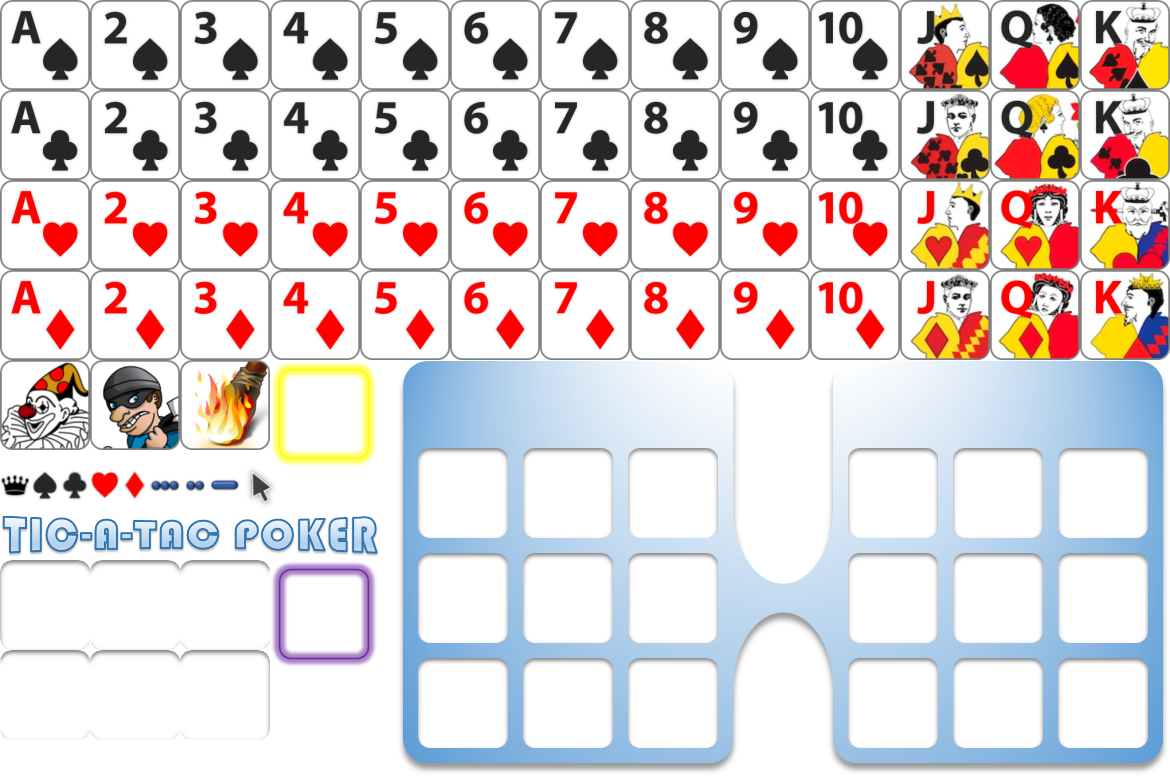
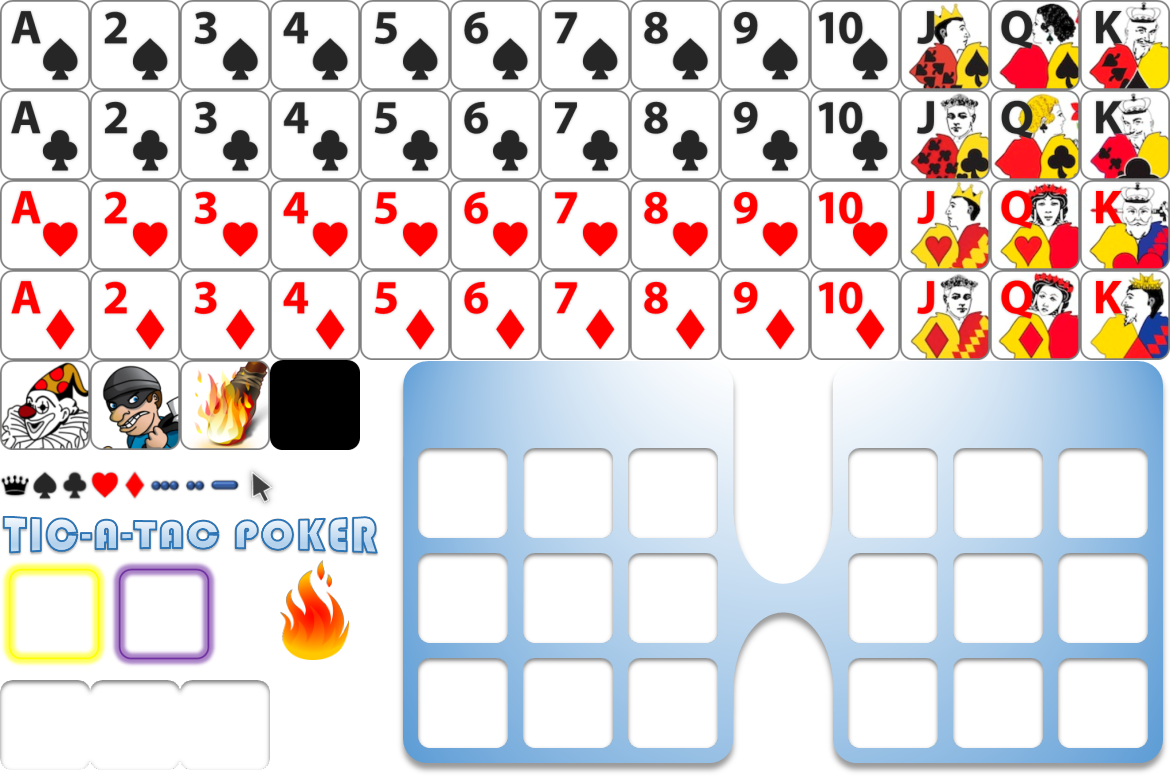
Eric

Changed region(s): [[0.0, 0.7077, 0.3385, 0.8923], [0.2154, 0.4615, 0.3385, 0.6154]]

diff --git a/render.js b/render.js
@@ -9,11 +9,22 @@ function aniHighlightGrid(status){
 		animation.globalAlpha = ((aniFrame%20 > 10)?20-aniFrame%20:aniFrame%20)/10;
 		//Left
 		for (var i = 0; i < 9; i++)
-			if (status[0] && status[0][i]) animation.drawImage(image,270,360,108,108,106+105*(i%3),161+105*Math.floor(i/3),108,108);
+			if (status[0] && status[0][i]) animation.drawImage(image,0,560,108,108,106+105*(i%3),161+105*Math.floor(i/3),108,108);
 		//Right
 		for (var i = 0; i < 9; i++)
-			if (status[1] && status[1][i]) animation.drawImage(image,270,360,108,108,536+105*(i%3),161+105*Math.floor(i/3),108,108);
+			if (status[1] && status[1][i]) animation.drawImage(image,0,560,108,108,536+105*(i%3),161+105*Math.floor(i/3),108,108);
 		aniFrame++;
+	}
+}
+
+function aniDropCardEffect(gridPosX,effectPos){
+	if (animation) {
+		animation.clearRect(0,0,960,640);
+		animation.globalAlpha = 1-aniFrame*0.1;
+		animation.drawImage(image,0,560,108,108,Math.floor((gridPosX-9+105*(effectPos%3))-108*(aniFrame*0.05)*0.5),
+							Math.floor((161+105*Math.floor(effectPos/3))-108*(aniFrame*0.05)*0.5),108*(1+aniFrame*0.05),108*(1+aniFrame*0.05));
+		aniFrame++;
+		if (aniFrame > 10) aniClear();
 	}
 }
 
@@ -22,9 +33,9 @@ function aniHighlightHand(gridPosX,matchPos){
 		animation.clearRect(0,0,960,640);
 		animation.globalAlpha = ((aniFrame > 10)?20-aniFrame:aniFrame)/10;
 		for (var i = 0; i < matchPos.length; i++)
-			animation.drawImage(image,270,560,108,108,gridPosX-9+105*(matchPos[i]%3),161+105*Math.floor(matchPos[i]/3),108,108);
+			animation.drawImage(image,110,560,108,108,gridPosX-9+105*(matchPos[i]%3),161+105*Math.floor(matchPos[i]/3),108,108);
 		if (aniHighlightHandInFoucus && aniFrame < 10 || !aniHighlightHandInFoucus) aniFrame++;
-		if (aniFrame >= 20) aniClear();
+		if (aniFrame > 20) aniClear();
 	}
 }
 
@@ -40,8 +51,10 @@ function renderBoard(){
 		board.clearRect(0,0,960,640);
 		board.drawImage(image,0,515,380,45,290,20,380,45);
 		board.drawImage(image,396,360,774,416,93,82,774,416);
-		board.drawImage(image,0,560,270,90,210,520,270,90);
-		board.drawImage(image,0,650,270,90,480,520,270,90);
+		board.drawImage(image,0,680,90,90,210,520,90,90);
+		for (var i = 0; i < 4; i++)
+			board.drawImage(image,90,680,90,90,300+90*i,520,90,90);
+		board.drawImage(image,180,680,90,90,660,520,90,90);
 		player.drawContent();
 		ai.drawContent();
 	}	

diff --git a/main.html b/main.html
@@ -3,6 +3,7 @@
 <head>
 <meta charset="utf-moveSpeed">
 <title>Tic-A-Tac Poker</title>
+<link href="http://fonts.googleapis.com/css?family=Lilita+One" rel="stylesheet" type="text/css">
 <link rel="stylesheet" type="text/css" href="theme.css" media="all">
 <script src="http://ajax.googleapis.com/ajax/libs/jquery/1.7/jquery.js"></script>
 <script src="ai.js"></script>
@@ -38,8 +39,8 @@ function init(){
 	for (var i = 0; i < 6; i++)
 		if (!dealtCards[i]) dealtCards[i] = deck.dealCard();
 	
-	player = new Player("Eric",115);
-	ai = new Player("AI",545);
+	player = new Player("Human",115);
+	ai = new Player("Computer",545);
 	
 	//Get canvas
 	animation = $("#animation")[0].getContext && $("#animation")[0].getContext("2d");
@@ -124,11 +125,19 @@ function gameLoop(){
 				dealtCards[focusCardIndex].posY > ai.decision.destPos.y-moveSpeed && dealtCards[focusCardIndex].posY < ai.decision.destPos.y+moveSpeed) {
 				//Poker, clown or torch (AI)
 				if (dealtCards[focusCardIndex].suit != SPECIAL_SUIT || dealtCards[focusCardIndex].suit == SPECIAL_SUIT &&
-					(dealtCards[focusCardIndex].rank == CLOWN_RANK || dealtCards[focusCardIndex].rank == TORCH_RANK && ai.decision.burnTarget == "ai"))
+					(dealtCards[focusCardIndex].rank == CLOWN_RANK || dealtCards[focusCardIndex].rank == TORCH_RANK && ai.decision.burnTarget == "ai")) {
 					ai.updateGrid(ai.decision.destPos.pos,dealtCards[focusCardIndex]);
+					
+					aniClear();
+					aniShow = setInterval("aniDropCardEffect(ai.gridPosX,ai.decision.destPos.pos)",20);
+				}
 				//Torch (Player)
-				if (dealtCards[focusCardIndex].suit == SPECIAL_SUIT && dealtCards[focusCardIndex].rank == TORCH_RANK && ai.decision.burnTarget == "player")
+				if (dealtCards[focusCardIndex].suit == SPECIAL_SUIT && dealtCards[focusCardIndex].rank == TORCH_RANK && ai.decision.burnTarget == "player") {
 					player.updateGrid(ai.decision.destPos.pos,dealtCards[focusCardIndex]);
+					
+					aniClear();
+					aniShow = setInterval("aniDropCardEffect(player.gridPosX,ai.decision.destPos.pos)",20);
+				}
 				//Thief
 				if (dealtCards[focusCardIndex].suit == SPECIAL_SUIT && dealtCards[focusCardIndex].rank == THIEF_RANK) {
 					dealtCards[focusCardIndex] = player.updateGrid(ai.decision.destPos.pos,dealtCards[focusCardIndex]);

diff --git a/handler.js b/handler.js
@@ -50,7 +50,7 @@ function mouseMoveHandler(e){
 				aniHighlightHandPos = player.hands[index].matchPos;
 				aniHighlightHandInFoucus = true;
 				aniHighlightHandInFoucusIndex = index;
-				aniShow = setInterval("aniHighlightHand(player.gridPosX,aniHighlightHandPos)",20);	
+				aniShow = setInterval("aniHighlightHand(player.gridPosX,aniHighlightHandPos)",20);
 			}
 		} else if (player.mouseX >= ai.gridPosX-8 && player.mouseX <= ai.gridPosX+308 && player.mouseY >= 125 && player.mouseY <= 175 && (player.mouseX-ai.gridPosX)%38 >= 2) {
 			var index = Math.floor((player.mouseX-ai.gridPosX)/38);
@@ -59,7 +59,7 @@ function mouseMoveHandler(e){
 				aniHighlightHandPos = ai.hands[index].matchPos;
 				aniHighlightHandInFoucus = true;
 				aniHighlightHandInFoucusIndex = index;
-				aniShow = setInterval("aniHighlightHand(ai.gridPosX,aniHighlightHandPos)",20);	
+				aniShow = setInterval("aniHighlightHand(ai.gridPosX,aniHighlightHandPos)",20);
 			}
 		} else {
 			aniHighlightHandInFoucus = false;
@@ -82,6 +82,10 @@ function mouseUpHandler(e){
 			var posY = Math.floor((player.mouseY-170)/105);
 			if (dealtCards[focusCardIndex].suit != SPECIAL_SUIT || dealtCards[focusCardIndex].rank != THIEF_RANK)
 				if (player.updateGrid(posY*3+posX,dealtCards[focusCardIndex])) {
+					var effectPos = posY*3+posX;
+					aniClear();
+					aniShow = setInterval("aniDropCardEffect(player.gridPosX,"+effectPos+")",20);
+					
 					dealtCards[focusCardIndex] = null;
 					isStealing = false;
 					player.move = false;
@@ -109,13 +113,16 @@ function mouseUpHandler(e){
 			
 			if (dealtCards[focusCardIndex].suit == SPECIAL_SUIT && dealtCards[focusCardIndex].rank == TORCH_RANK)
 				if (ai.updateGrid(posY*3+posX,dealtCards[focusCardIndex])) {
+					var effectPos = posY*3+posX;
+					aniClear();
+					aniShow = setInterval("aniDropCardEffect(ai.gridPosX,"+effectPos+")",20);
+					
 					dealtCards[focusCardIndex] = null;
 					player.move = false;
 				}
 		}
 	
 	if (!isStealing) {
-		aniClear();
 		focusCardIndex = -1;
 	}
 }

diff --git a/class.js b/class.js
@@ -147,12 +147,12 @@ function Player(name,gridPosX){
 		if (!aniShow) this.updateHands();
 		
 		//Draw the play's name and score
-		board.fillStyle = "#0044FF";
-		board.font = "bold 25px Verdana";
+		board.fillStyle = "#0077FF";
+		board.font = "30px Lilita One";
 		board.textAlign = "left";
-		board.fillText(this.name,this.gridPosX+2,120);
+		board.fillText(this.name,this.gridPosX+2,122);
 		board.textAlign = "right";
-		board.fillText(this.shownScore,this.gridPosX+298,120);
+		board.fillText(this.shownScore,this.gridPosX+298,122);
 		if (this.shownScore < this.score) this.shownScore += 10;
 		if (this.shownScore > this.score) this.shownScore -= 10;
 		//Draw the player's cards
